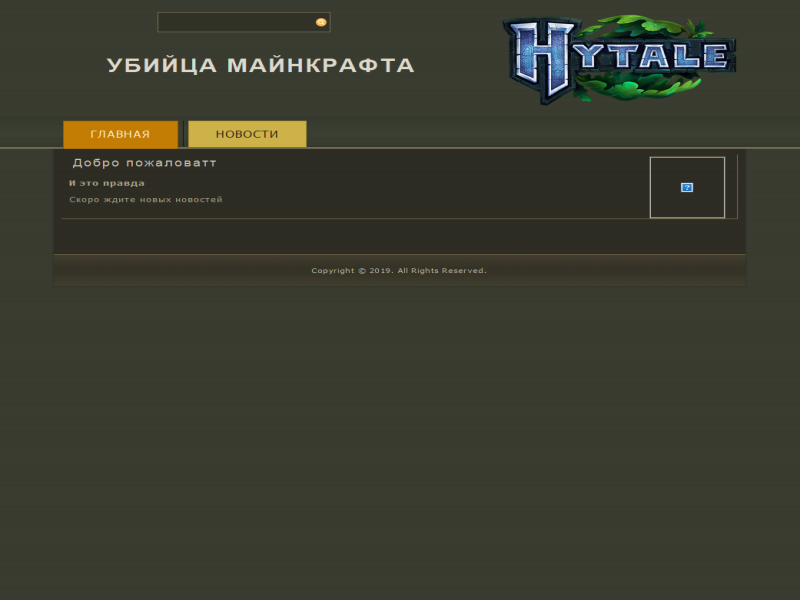
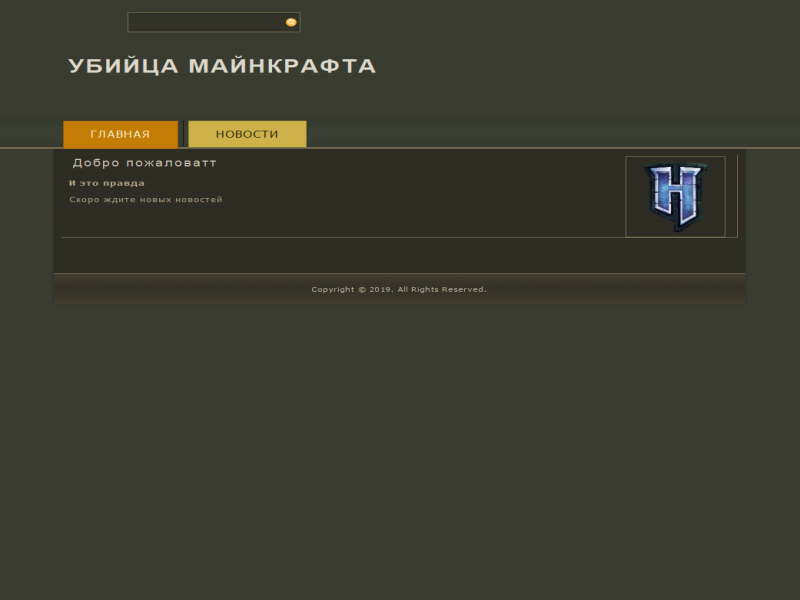
Обновление

diff --git a/index.html b/index.html
@@ -59,7 +59,7 @@
                                 <div class="art-postcontent art-postcontent-0 clearfix"><div class="art-content-layout">
     <div class="art-content-layout-row">
     <div class="art-layout-cell layout-item-0" style="width: 100%" >
-        <div class="image-caption-wrapper" style="padding-top: 3px; padding-right: 5px; padding-bottom: 4px; padding-left: 5px;"><span style="line-height: 21px; letter-spacing: 2px; font-size: 18px; font-family: Arial, 'Arial Unicode MS', Helvetica, sans-serif; color: rgb(204, 197, 178);">Добро пожаловатт<img width="99" height="106" alt="" class="art-lightbox" src="images/DuBBVmoWoAAL7Eu.png" style="margin-top: 10px; margin-right: 10px; margin-bottom: 10px; margin-left: 10px; float: right;"></span><br></div><p><span style="font-weight: bold;">И это правда</span></p><p>Скоро ждите новых новостей</p>
+        <div class="image-caption-wrapper" style="padding-top: 3px; padding-right: 5px; padding-bottom: 4px; padding-left: 5px;"><span style="line-height: 21px; letter-spacing: 2px; font-size: 18px; font-family: Arial, 'Arial Unicode MS', Helvetica, sans-serif; color: rgb(204, 197, 178);">Добро пожаловатт<img width="130" height="138" style="float: right; margin-top: 10px; margin-right: 10px; margin-bottom: 10px; margin-left: 10px;" alt="" class="art-lightbox" src="images/DuBBVmoWoAAL7Eu.png"></span><br></div><p><span style="font-weight: bold;">И это правда</span></p><p>Скоро ждите новых новостей</p>
     </div>
     </div>
 </div>
